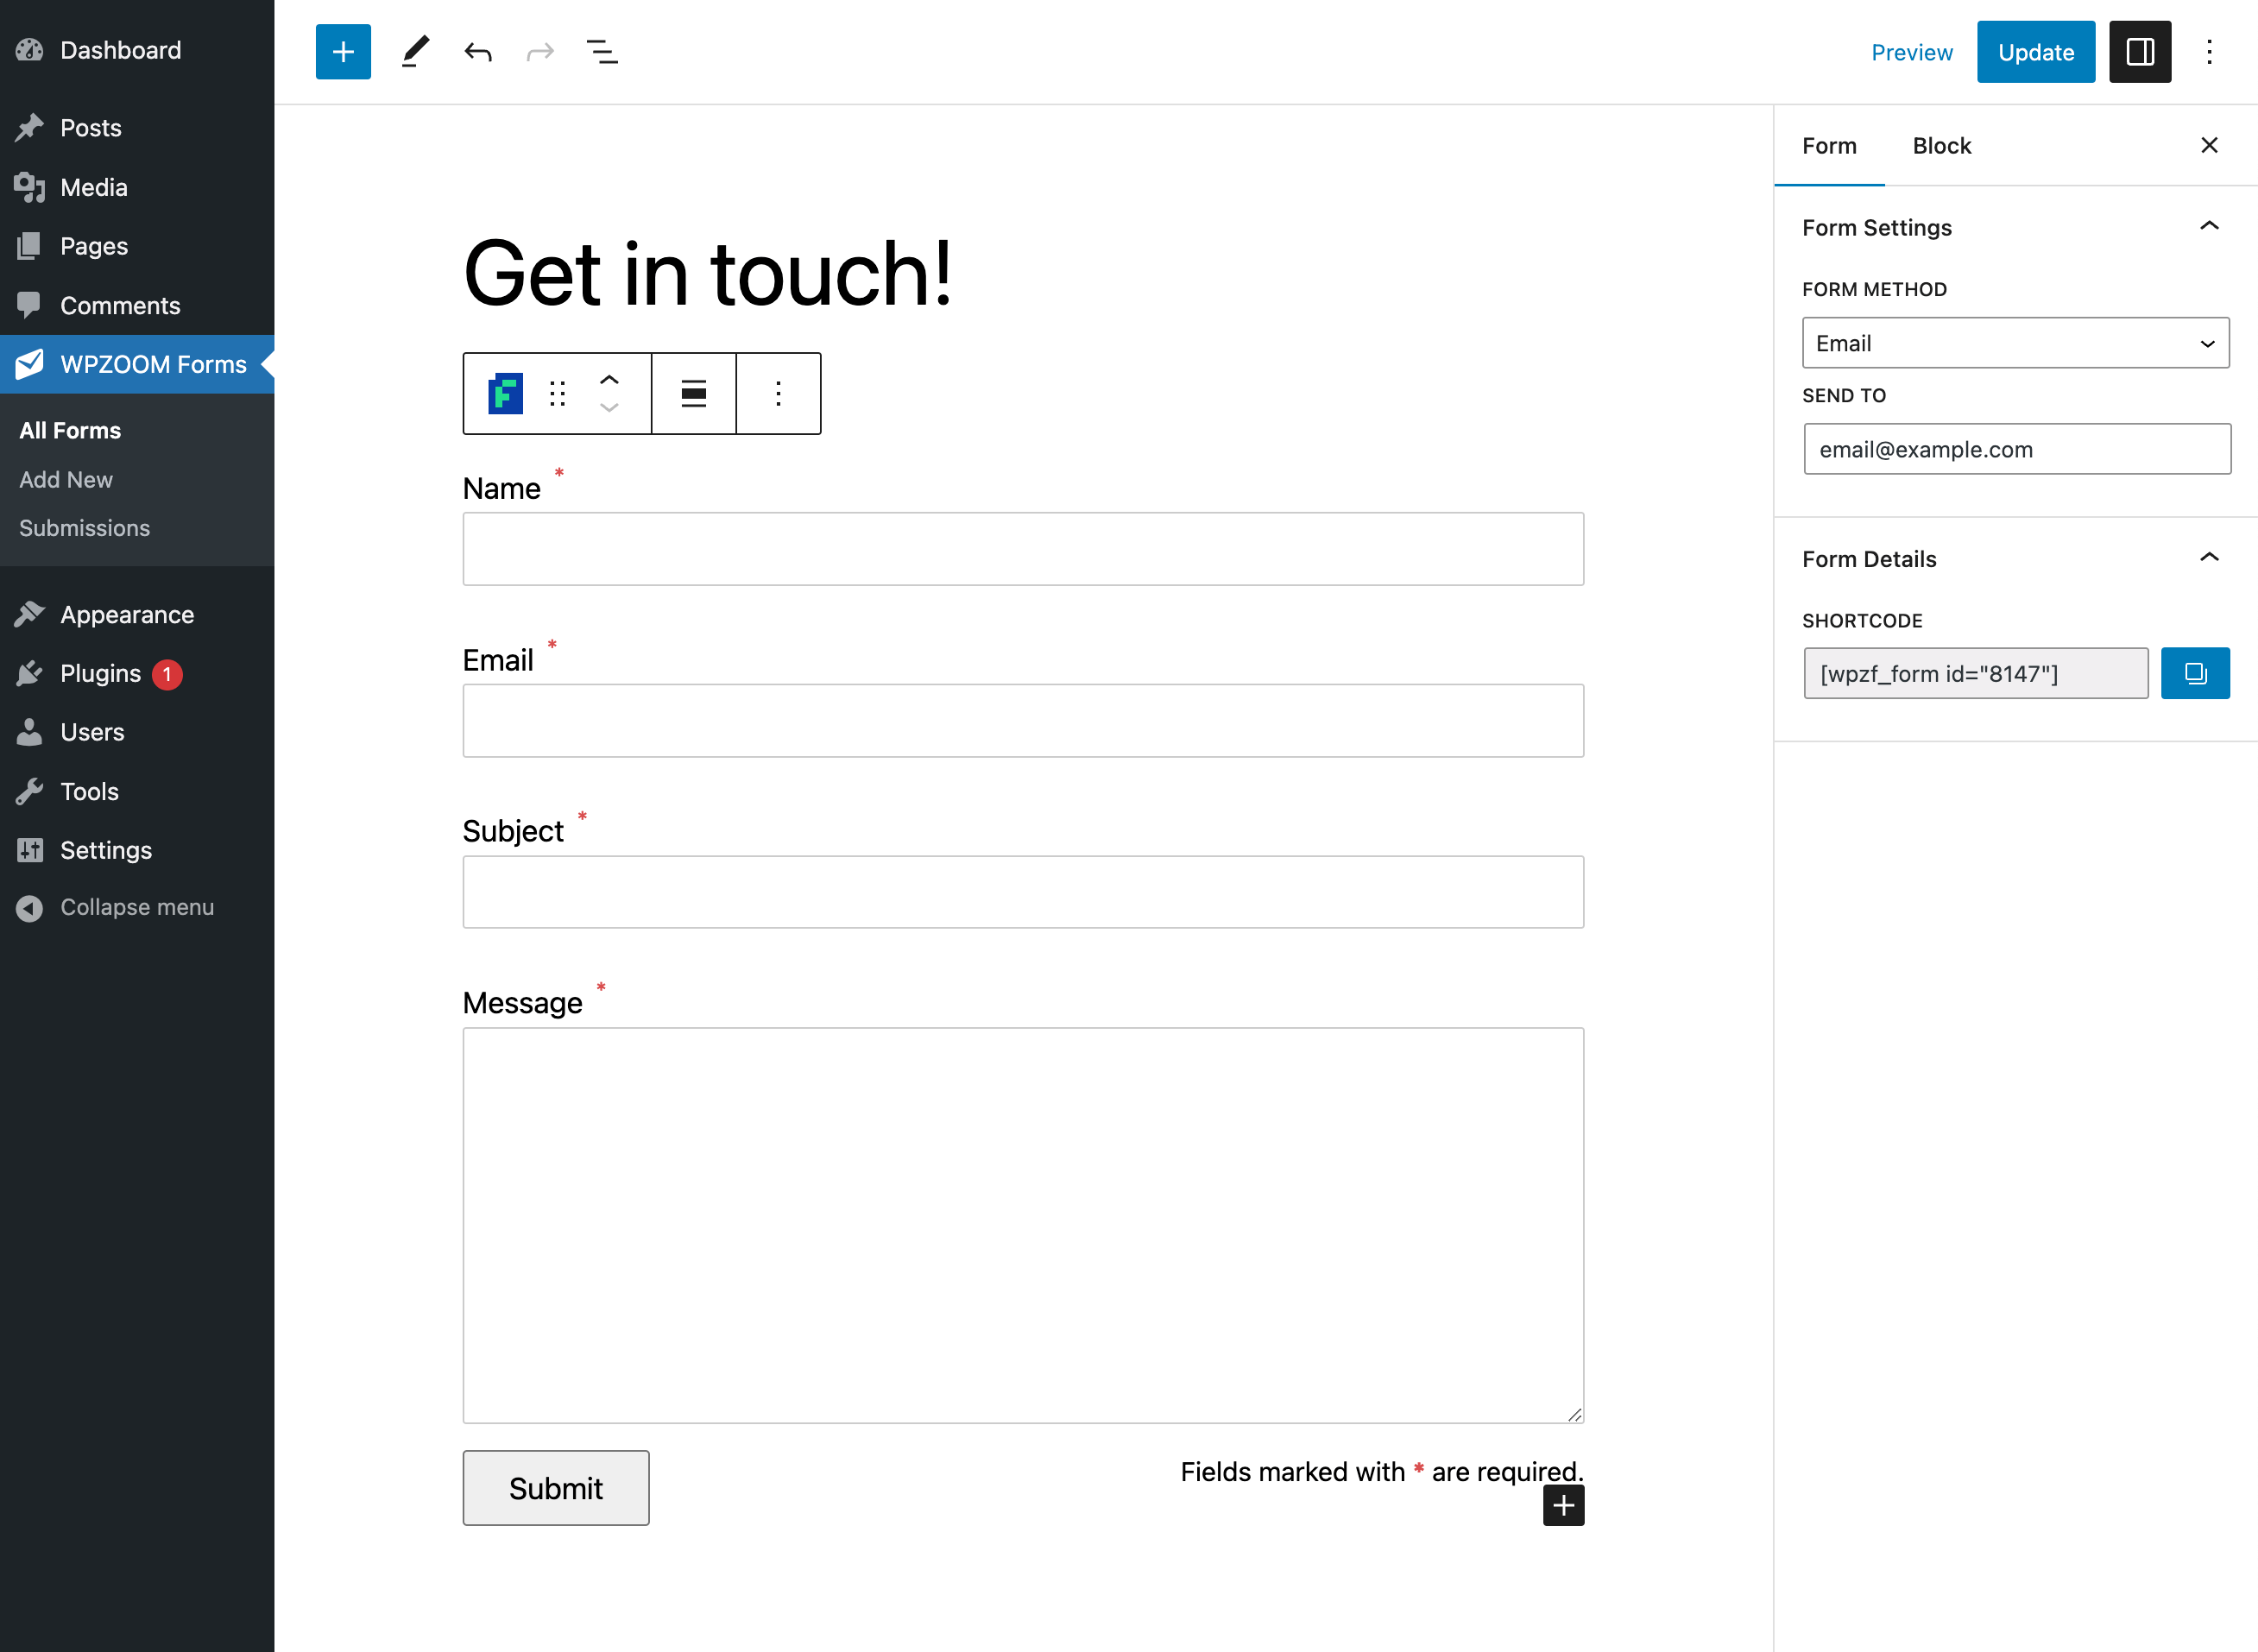
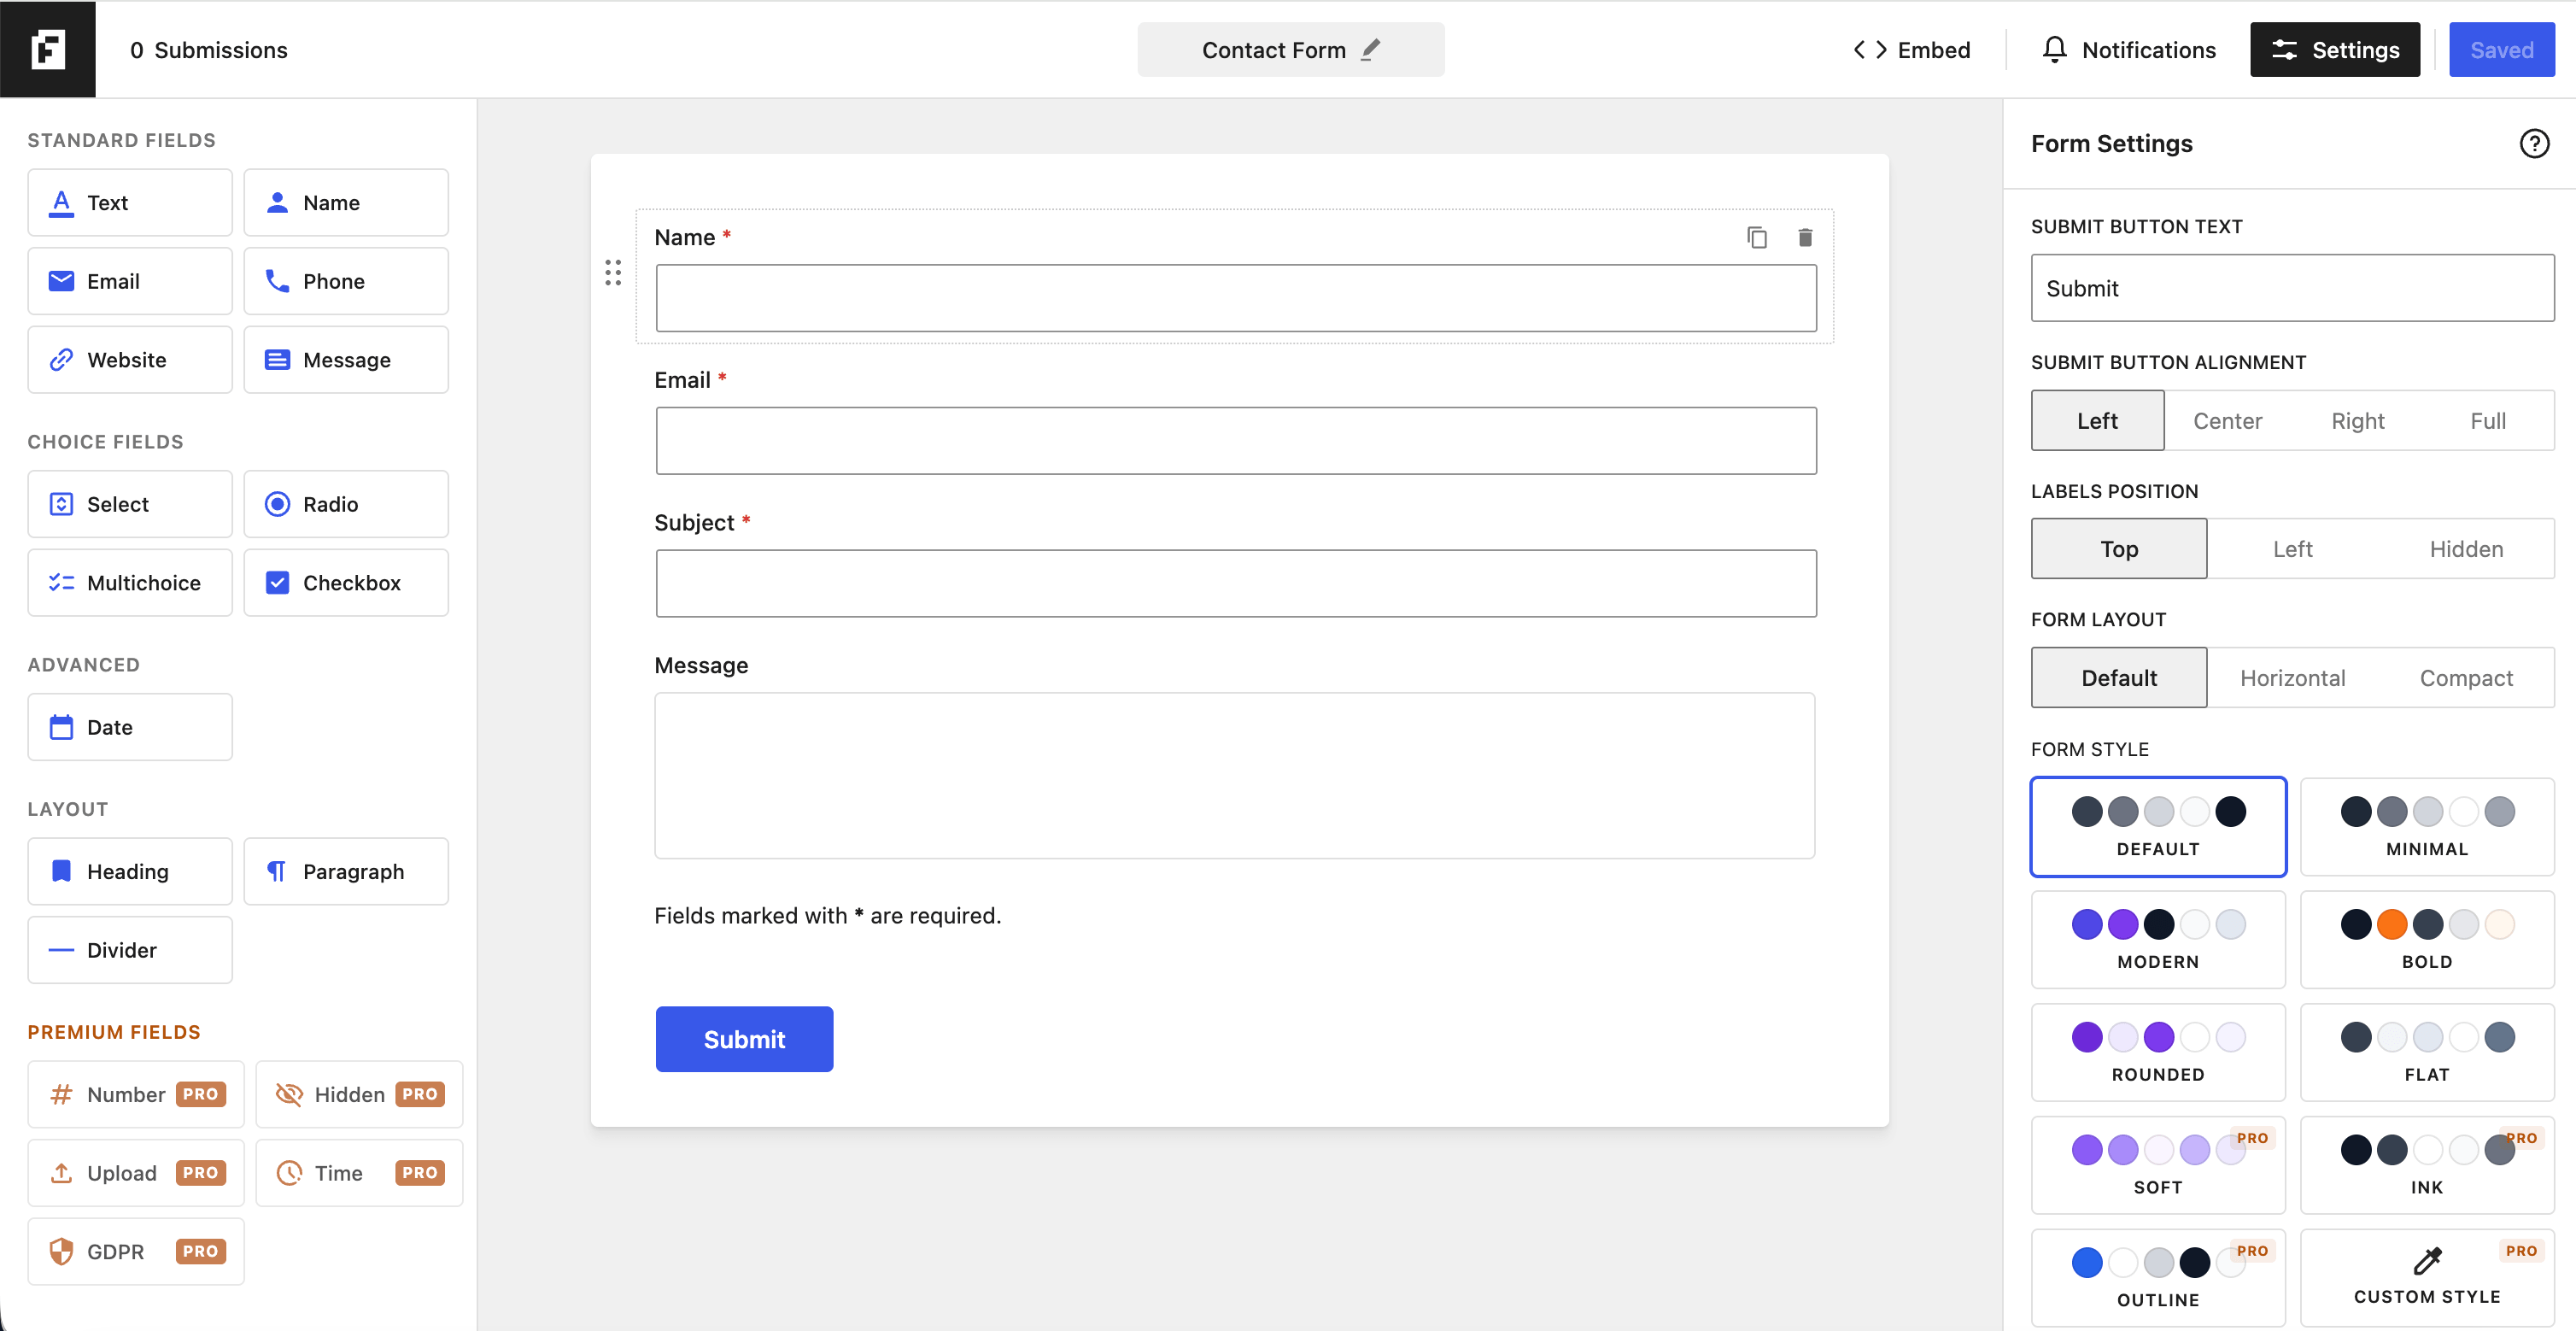
v2.0.

diff --git a/classes/class-wpzoom-forms-submission-handler.php b/classes/class-wpzoom-forms-submission-handler.php
@@ -324,27 +324,46 @@ class WPZOOM_Forms_Submission_Handler {
 
 		$from_email = $reply_to_email ?: $to;
 
+		// Stacked label / value rows (bold label, value underneath) — a clean,
+		// simple layout that renders well everywhere.
 		$rows = '';
 		foreach ( $fields as $label => $val ) {
-			$rows .= '<tr>'
-				. '<td style="padding:8px 12px;border-bottom:1px solid #eee;font-weight:600;color:#1a1a1a;vertical-align:top;width:30%;">' . esc_html( $label ) . '</td>'
-				. '<td style="padding:8px 12px;border-bottom:1px solid #eee;color:#444;">' . nl2br( esc_html( $val ) ) . '</td>'
-				. '</tr>';
+			$rows .= '<tr><td style="padding:0 0 18px 0;color:#222222;font-size:14px;line-height:1.6;vertical-align:top;">'
+				. '<strong style="display:block;margin-bottom:3px;color:#1a1a1a;">' . esc_html( $label ) . '</strong>'
+				. '<span style="color:#555555;">' . nl2br( esc_html( $val ) ) . '</span>'
+				. '</td></tr>';
 		}
 
-		$body = '<!doctype html><html><body style="margin:0;padding:24px;background:#f4f5f7;font-family:-apple-system,BlinkMacSystemFont,Segoe UI,Helvetica,Arial,sans-serif;color:#222;">'
-			. '<div style="max-width:600px;margin:0 auto;background:#fff;border-radius:8px;overflow:hidden;box-shadow:0 1px 3px rgba(0,0,0,0.08);">'
-			.   '<div style="padding:18px 24px;background:#1a1a1a;color:#fff;font-size:16px;font-weight:600;">' . esc_html( $base_subject ) . '</div>'
-			.   '<table style="width:100%;border-collapse:collapse;font-size:14px;line-height:1.5;">' . $rows . '</table>'
-			.   '<div style="padding:14px 24px;color:#888;font-size:12px;border-top:1px solid #eee;">'
-			.     sprintf(
-					/* translators: 1: site name (linked), 2: plugin name */
-					esc_html__( 'Sent from %1$s using the %2$s plugin.', 'wpzoom-forms' ),
-					'<a href="' . esc_url( home_url() ) . '" style="color:#888;">' . esc_html( $site_name ) . '</a>',
-					'<strong>WPZOOM Forms</strong>'
-				  )
+		$footer = sprintf(
+			/* translators: 1: site name (linked), 2: plugin name */
+			esc_html__( 'Sent from %1$s using the %2$s plugin.', 'wpzoom-forms' ),
+			'<a href="' . esc_url( home_url() ) . '" style="color:#888888;">' . esc_html( $site_name ) . '</a>',
+			'<strong>WPZOOM Forms</strong>'
+		);
+
+		// All visual styling is inline (best for email clients). The small <style>
+		// block carries only the things inline CSS can't express: the iOS
+		// data-detector reset (stops Apple Mail recoloring dates/phones/addresses
+		// inside submitted values) and Outlook/mobile text-size hardening.
+		$body = '<!doctype html><html><head>'
+			. '<meta charset="utf-8">'
+			. '<meta name="viewport" content="width=device-width,initial-scale=1">'
+			. '<style>'
+			.   'a[x-apple-data-detectors]{color:inherit!important;text-decoration:none!important;font-size:inherit!important;font-family:inherit!important;font-weight:inherit!important;line-height:inherit!important;}'
+			.   'table{mso-table-lspace:0pt;mso-table-rspace:0pt;}'
+			.   'body,table,td,a{-webkit-text-size-adjust:100%;-ms-text-size-adjust:100%;}'
+			. '</style>'
+			. '</head>'
+			. '<body style="margin:0;padding:24px;background:#f4f3f3;font-family:-apple-system,BlinkMacSystemFont,Segoe UI,Helvetica,Arial,sans-serif;color:#222222;">'
+			.   '<div style="max-width:600px;margin:0 auto;background:#ffffff;border:1px solid #eaeaea;border-radius:10px;overflow:hidden;">'
+			.     '<table width="100%" cellpadding="0" cellspacing="0" style="border-collapse:collapse;">'
+			.       '<tr><td style="padding:28px 28px 10px 28px;">'
+			.         '<table width="100%" cellpadding="0" cellspacing="0" style="border-collapse:collapse;">' . $rows . '</table>'
+			.       '</td></tr>'
+			.       '<tr><td style="padding:18px 28px;border-top:1px solid #eaeaea;color:#888888;font-size:12px;line-height:1.5;">' . $footer . '</td></tr>'
+			.     '</table>'
 			.   '</div>'
-			. '</div></body></html>';
+			. '</body></html>';
 
 		$headers = array(
 			'Content-Type: text/html; charset=UTF-8',